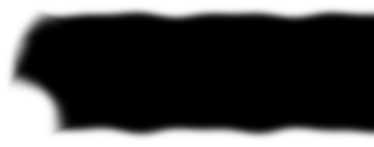
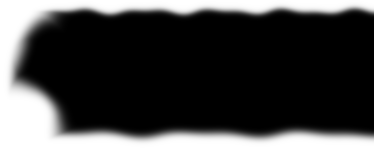
BTS 02 to 04: no line across the photos, no strip above them
Release 42 insert review (coordinator), from 1280px. Still a MOCKUP;
phase 2 stays off (HSS_P2).

- The divider no longer crosses the photos. My rule removing the old
  border lost to the later base rule (same specificity), so the full
  1px border was still drawn over the photo. With higher specificity,
  only the short gradient divider remains; it ends 16 to 17px before
  each photo at every width (both are aligned to the type).
- 02 had no real strip fix. The photo now starts 4px below the IG
  cards (03 and 04: 12px below the video and film rows). Keep-outs
  above the zone (the previous block's captions and controls) use a
  short 32px falloff, and the top feather is a wavy 36px. So the
  photo visibly starts about 24px below the captions, with no flat
  band.

Checks (headless Chrome):
- tools/line42.mjs (new): at 1280, 1440 and 1920 the old border is
  0px, and the photo's mask alpha is 0.000 everywhere the divider is
  drawn. PASS on 02, 03, 04.
- Edge check: 0 hard edges and 0 straight feathers on every mask.
- Alpha 0.000 under all type; at most 0.043 at 24px out (02, beside
  the IG captions).
- No BTS request at 1279.
- Homepage audit: axe 0, CLS 0, TBT 0.

Claude-Session: https://claude.ai/code/session_01ToX74WXy7pcyTTtmuot5ru

Changed region(s): [[0.1176, 0.0272, 1.0, 0.1633]]

diff --git a/build_site.py b/build_site.py
@@ -1002,8 +1002,8 @@ CSS = """<style>
     #wwd-social .wwd-copy,#wwd-brand .wwd-copy,#wwd-podcast .wwd-copy{max-width:37ch;}
     /* 02 to 04: the photo rises through the gap above its block, so the divider fades out just
        before it on the photo's side (the spacing is unchanged) */
-    .wwd-block + .wwd-block{position:relative;border-top:0;padding-top:calc(var(--s7) + 1px);}
-    .wwd-block + .wwd-block::before{content:"";position:absolute;top:0;left:0;height:1px;
+    section.wwd .wwd-block + .wwd-block{position:relative;border-top:0;padding-top:calc(var(--s7) + 1px);}
+    section.wwd .wwd-block + .wwd-block::before{content:"";position:absolute;top:0;left:0;height:1px;
       width:var(--wwd-line,100%);background:linear-gradient(to right,var(--line) calc(100% - 72px),transparent);}
     #wwd-commercial{--wwd-line:420px;}#wwd-brand,#wwd-podcast{--wwd-line:360px;}}
   /* 01 from 1680px: the wider box crops the photo vertically; frame higher so the camera
@@ -3996,7 +3996,8 @@ def bts_fill_mask(key, out):
     quiet = [(cx * W14, cy * H, rx * W14, ry * H) for cx, cy, rx, ry in BTS_QUIET.get(key, ())]
     keep = key in BTS_KEEP
     fe = BTS_FAR.get(key, (190, 70))
-    ko = [(W14 - r[2], r[1], W14 - r[0], r[3]) for r in lay["rects"]]          # box coords
+    ko = [(W14 - r[2], r[1], W14 - r[0], r[3]) for r in lay["rects"] if r[3] > 8]   # box coords
+    ka = [(W14 - r[2], r[1], W14 - r[0], r[3]) for r in lay["rects"] if r[3] <= 8]  # above the zone
     pools = [(ox + (px - x0) * sc, oy + (py_ - y0) * sc, rx * sc, ry * sc) for px, py_, rx, ry in BTS_POOLS.get(fk, BTS_POOLS[key])]
     mw, mh = W19 // BTS_MS + 1, H // BTS_MS + 1
     k = math.tan(math.radians(BTS_TILT))
@@ -4007,10 +4008,14 @@ def bts_fill_mask(key, out):
         for i in range(mw):
             X = i * BTS_MS
             d = 1e9
-            for a_, b_, c_, e_ in ko:
+            for a_, b_, c_, e_ in ko + ka:
                 dx = max(a_ - BTS_PAD - X, 0, X - (c_ + BTS_PAD))
                 dy = max(b_ - BTS_PAD - Y, 0, Y - (e_ + BTS_PAD))
-                d = min(d, math.hypot(dx, dy))
+                if (a_, b_, c_, e_) in ka and dx == 0 and dy == 0:
+                    d = 0
+                    break
+                if (a_, b_, c_, e_) not in ka:
+                    d = min(d, math.hypot(dx, dy))
             pv = pa = 0.0
             for cx, cy, rx, ry in pools:
                 q = math.hypot((X - cx) / rx, (Y - cy) / ry)
@@ -4024,6 +4029,11 @@ def bts_fill_mask(key, out):
             f = 170 - 80 * pv                                   # longer in quiet areas
             t = (d - (46 if keep else 30) * _bts_noise(X, Y, 1.0)) / f   # the boundary wanders outward
             al = 0.0 if t <= 0 else _bts_ease(1 - min(1.0, t))
+            if ka:                                              # the previous block: a short falloff
+                da = min(math.hypot(max(a_ - BTS_PAD - X, 0, X - (c_ + BTS_PAD)),
+                                    max(b_ - BTS_PAD - Y, 0, Y - (e_ + BTS_PAD))) for a_, b_, c_, e_ in ka)
+                ta = (da - 10 * _bts_noise(X, Y, 5.0)) / 32
+                al = min(al, 0.0 if ta <= 0 else _bts_ease(1 - min(1.0, ta)))
             e = (X + (Y - H / 2) * k - fe[1] * _bts_noise(X * 0.6, Y, 2.0)) / fe[0]   # wavy far edge
             ae = 0.0 if e <= 0 else _bts_ease(1 - min(1.0, e))
             al = min(al, ae if keep else max(ae, pa))           # the story's people stay solid
@@ -4032,7 +4042,7 @@ def bts_fill_mask(key, out):
                 if q < 1:
                     al *= 1 - _bts_ease(q)
             if topf:                                            # wavy top: 0 at the zone's start
-                e = (Y - 22 * _bts_noise(X, Y * 0.3, 4.0)) / 56
+                e = (Y - 24 * _bts_noise(X * 1.6, Y * 0.3, 4.0)) / 36
                 al = min(al, 0.0 if e <= 0 else _bts_ease(1 - min(1.0, e)))
             if bottom:                                          # wavy bottom: 0 at the zone's end
                 e = ((H - Y) - 26 * _bts_noise(X, Y * 0.3, 3.0)) / 64
@@ -4067,7 +4077,7 @@ def bts_fill_mask(key, out):
 BTS_FILL = {}
 BTS_EDGES = {}
 if MODE == "web" and BTS_LAYOUT:
-    _lr = hashlib.sha1(json.dumps([BTS_WWD04, BTS_LAYOUT, BTS_POOLS, BTS_PAD, BTS_TILT, BTS_BOX, BTS_MS, BTS_QUIET, sorted(BTS_KEEP), BTS_FAR, 14]).encode()).hexdigest()[:12]
+    _lr = hashlib.sha1(json.dumps([BTS_WWD04, BTS_LAYOUT, BTS_POOLS, BTS_PAD, BTS_TILT, BTS_BOX, BTS_MS, BTS_QUIET, sorted(BTS_KEEP), BTS_FAR, 16]).encode()).hexdigest()[:12]
     for _k in BTS_BOX:
         _o = f"{BTS_DIR}/bts-{_k}-fill.png"
         _fk = _k + "f" if _k + "f" in BTS else _k
